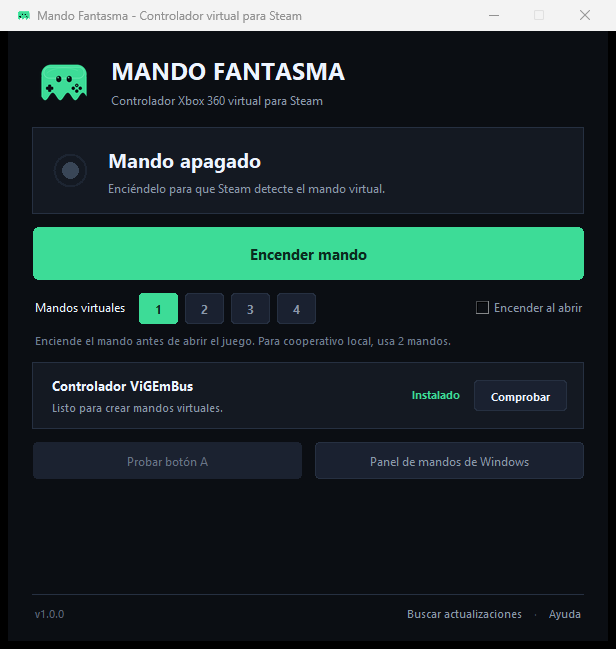
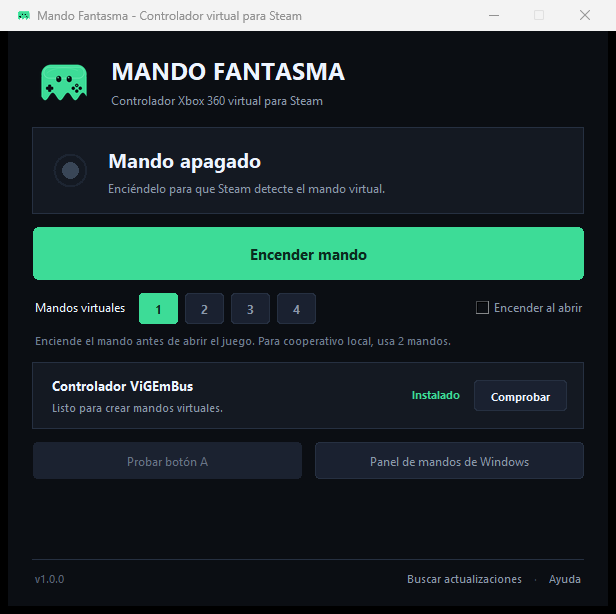
Interfaz final, notas de version con formato y comprobacion periodica

diff --git a/app.py b/app.py
@@ -769,19 +769,19 @@ class HelpDialog(tk.Toplevel):
             ("h", "PRIMER USO\n"),
             ("p", "1. Pulsa \"Instalar\" en la tarjeta del controlador ViGEmBus. Solo hace falta la primera vez.\n"),
             ("p", "2. Acepta el aviso de administrador y completa el instalador. Si Windows pide reiniciar, reinicia.\n"),
-            ("p", "3. Pulsa \"Encender mando\". Steam lo detectara como un mando Xbox 360.\n"),
-            ("p", "4. Abre Darksiders Genesis. Si el juego ya estaba abierto, cierralo y vuelve a abrirlo.\n"),
+            ("p", "3. Pulsa \"Encender mando\". Steam lo detectará como un mando Xbox 360.\n"),
+            ("p", "4. Abre Darksiders Genesis. Si el juego ya estaba abierto, ciérralo y vuelve a abrirlo.\n"),
             ("h", "COOPERATIVO LOCAL\n"),
             ("p", "Antes de encender, elige 2 mandos. Steam verá dos mandos Xbox 360 y podrás jugar la campaña cooperativa. Puedes crear hasta 4.\n"),
             ("h", "SI STEAM NO LO DETECTA\n"),
-            ("p", "Enciende el mando antes de abrir Steam, o reinicia Steam con el mando ya encendido. Tambien puedes pulsar \"Panel de mandos\" y comprobar que Windows lo reconoce.\n"),
+            ("p", "Enciende el mando antes de abrir Steam, o reinicia Steam con el mando ya encendido. También puedes pulsar \"Panel de mandos\" y comprobar que Windows lo reconoce.\n"),
             ("p", "Si acabas de instalar ViGEmBus y falla, reinicia Windows.\n"),
             ("h", "ACTUALIZACIONES\n"),
             ("p", "El programa consulta GitHub al abrirse. Cuando hay una versión nueva muestra un aviso; pulsa \"Actualizar\" y se descargará y reiniciará solo. Tus ajustes se conservan.\n"),
             ("h", "NOTAS\n"),
             ("p", "El ejecutable no está firmado digitalmente, así que Windows SmartScreen puede pedir confirmación la primera vez. Es normal: pulsa \"Más información\" y \"Ejecutar de todas formas\".\n"),
             ("p", "Mando Fantasma no está afiliado a Valve, Steam, THQ Nordic ni Nefarius Software Solutions.\n"),
-            ("h", "CREDITOS\n"),
+            ("h", "CRÉDITOS\n"),
             ("p", "ViGEmBus, de Nefarius Software Solutions (BSD-3-Clause). vgamepad, de Yann Bouteiller (MIT). Hecho con Python, tkinter y PyInstaller.\n"),
         ]
         for tag, content in help_text:
@@ -854,7 +854,7 @@ class UpdateDialog(tk.Toplevel):
         self.protocol("WM_DELETE_WINDOW", self._on_close)
 
         S = app.S
-        width, height = S(580), S(500)
+        width, height = S(580), S(460)
         center_window(self, width, height, app.root)
 
         header = tk.Frame(self, bg=BG)
@@ -891,7 +891,7 @@ class UpdateDialog(tk.Toplevel):
             pady=S(12),
             wrap="word",
             font=app.F(9),
-            height=10,
+            height=8,
             cursor="arrow",
         )
         notes_scroll = tk.Scrollbar(
@@ -900,11 +900,40 @@ class UpdateDialog(tk.Toplevel):
         notes.configure(yscrollcommand=notes_scroll.set)
         notes_scroll.pack(side="right", fill="y")
         notes.pack(side="left", fill="both", expand=True)
-        notes.insert(
-            "1.0",
-            info.get("notes")
-            or "Esta versión incluye mejoras y correcciones. Pulsa Actualizar para instalarla.",
+        notes.tag_configure(
+            "note_h",
+            font=app.F(10, "bold"),
+            foreground=TEXT,
+            spacing1=S(8),
+            spacing3=S(3),
         )
+        notes.tag_configure(
+            "note_p",
+            font=app.F(9),
+            foreground=MUTED,
+            spacing3=S(4),
+        )
+        notes.tag_configure("note_bullet", lmargin1=S(12), lmargin2=S(22))
+        release_notes = info.get("notes") or (
+            "Esta versión incluye mejoras y correcciones. "
+            "Pulsa Actualizar para instalarla."
+        )
+        for raw_line in release_notes.splitlines():
+            line = raw_line.rstrip()
+            if not line.strip():
+                notes.insert("end", "\n", "note_p")
+                continue
+            heading = re.match(r"^#{1,6}\s*(.*)$", line)
+            if heading:
+                notes.insert(
+                    "end", heading.group(1).replace("**", "") + "\n", "note_h"
+                )
+                continue
+            line = re.sub(r"^\s*[-*]\s+", "• ", line)
+            line = line.replace("**", "").replace("`", "")
+            line = re.sub(r"\[([^\]]+)\]\([^)]+\)", r"\1", line)
+            tags = ("note_p", "note_bullet") if line.startswith("• ") else "note_p"
+            notes.insert("end", line + "\n", tags)
         notes.configure(state="disabled")
 
         self.progress_frame = tk.Frame(self, bg=BG)
@@ -1146,6 +1175,7 @@ class PhantomApp:
 
         self._poll_job = self.root.after(80, self._poll_queue)
         self.root.after(1400, self._start_background_update_check)
+        self._schedule_periodic_update_check()
         if self.cfg.get("auto_connect") and self._driver_installed:
             self.root.after(650, self.toggle_power)
 
@@ -1922,7 +1952,17 @@ class PhantomApp:
     def _start_background_update_check(self):
         self._start_update_check(manual=False)
 
-    def _start_update_check(self, manual: bool):
+    def _schedule_periodic_update_check(self):
+        if not self._closing:
+            self.root.after(30 * 60 * 1000, self._periodic_update_check)
+
+    def _periodic_update_check(self):
+        if self._closing:
+            return
+        self._start_update_check(manual=False, quiet=True)
+        self._schedule_periodic_update_check()
+
+    def _start_update_check(self, manual: bool, quiet: bool = False):
         if self._checking:
             return
         self._checking = True
@@ -1933,14 +1973,14 @@ class PhantomApp:
         def worker():
             try:
                 info = fetch_latest_release()
-                self.post(self._on_update_check_result, info, manual, None)
+                self.post(self._on_update_check_result, info, manual, None, quiet)
             except Exception as error:
                 log_error(traceback.format_exc())
-                self.post(self._on_update_check_result, None, manual, error)
+                self.post(self._on_update_check_result, None, manual, error, quiet)
 
         threading.Thread(target=worker, daemon=True).start()
 
-    def _on_update_check_result(self, info, manual, error):
+    def _on_update_check_result(self, info, manual, error, quiet=False):
         self._checking = False
         self.update_link.set_enabled(True, "Buscar actualizaciones")
         if error is not None:
@@ -1956,7 +1996,7 @@ class PhantomApp:
             self.update_info = info
             self._show_banner(info)
             skipped = self.cfg.get("skipped_version")
-            if manual or skipped != info.get("version"):
+            if not quiet and (manual or skipped != info.get("version")):
                 if not self._auto_prompted or manual:
                     self._auto_prompted = True
                     self._open_update_dialog()

diff --git a/README.md b/README.md
@@ -1,3 +1,7 @@
+<p align="center">
+  <img src="assets/icon_256.png" width="96" alt="Mando Fantasma">
+</p>
+
 # Mando Fantasma
 
 **Controlador Xbox 360 virtual para Steam, pensado para Darksiders Genesis.**
@@ -41,7 +45,7 @@ Antes de encender el mando, elige **2 mandos virtuales**. Steam verá dos mandos
 
 ## Actualizaciones automáticas
 
-Cada vez que abras el programa, consulta la última release de este repositorio. Si hay una versión nueva:
+Cada vez que abras el programa, y también cada 30 minutos mientras esté abierto, consulta la última release de este repositorio. Si hay una versión nueva:
 
 - Muestra un aviso con las notas de la versión.
 - El botón **Actualizar** descarga el nuevo `.exe`, comprueba su integridad y lo reemplaza automáticamente al cerrar el programa.
